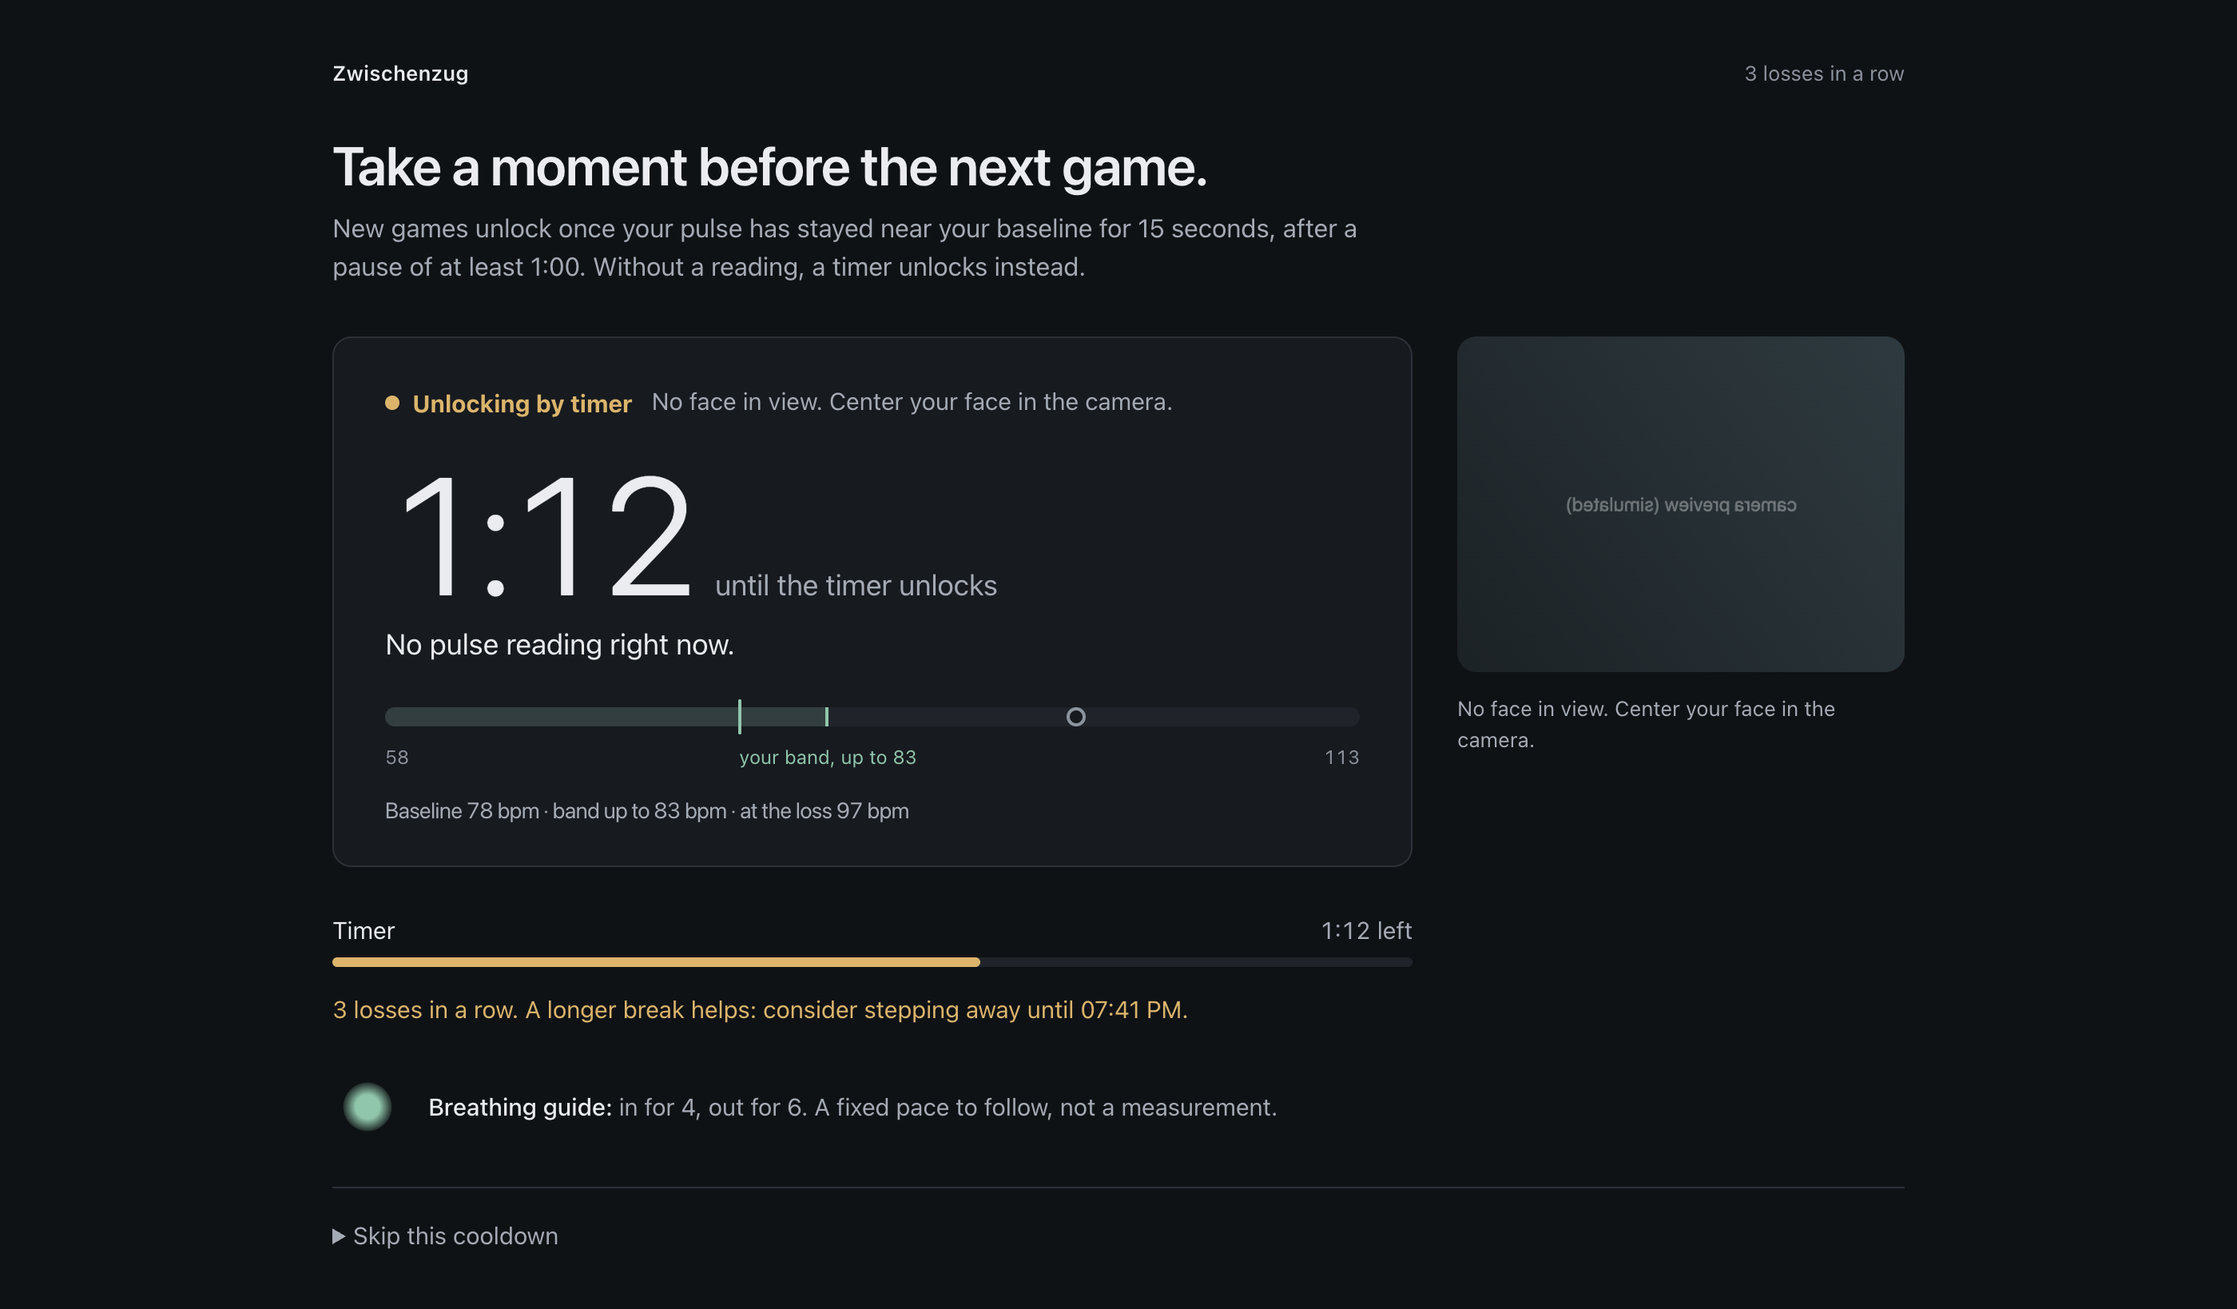
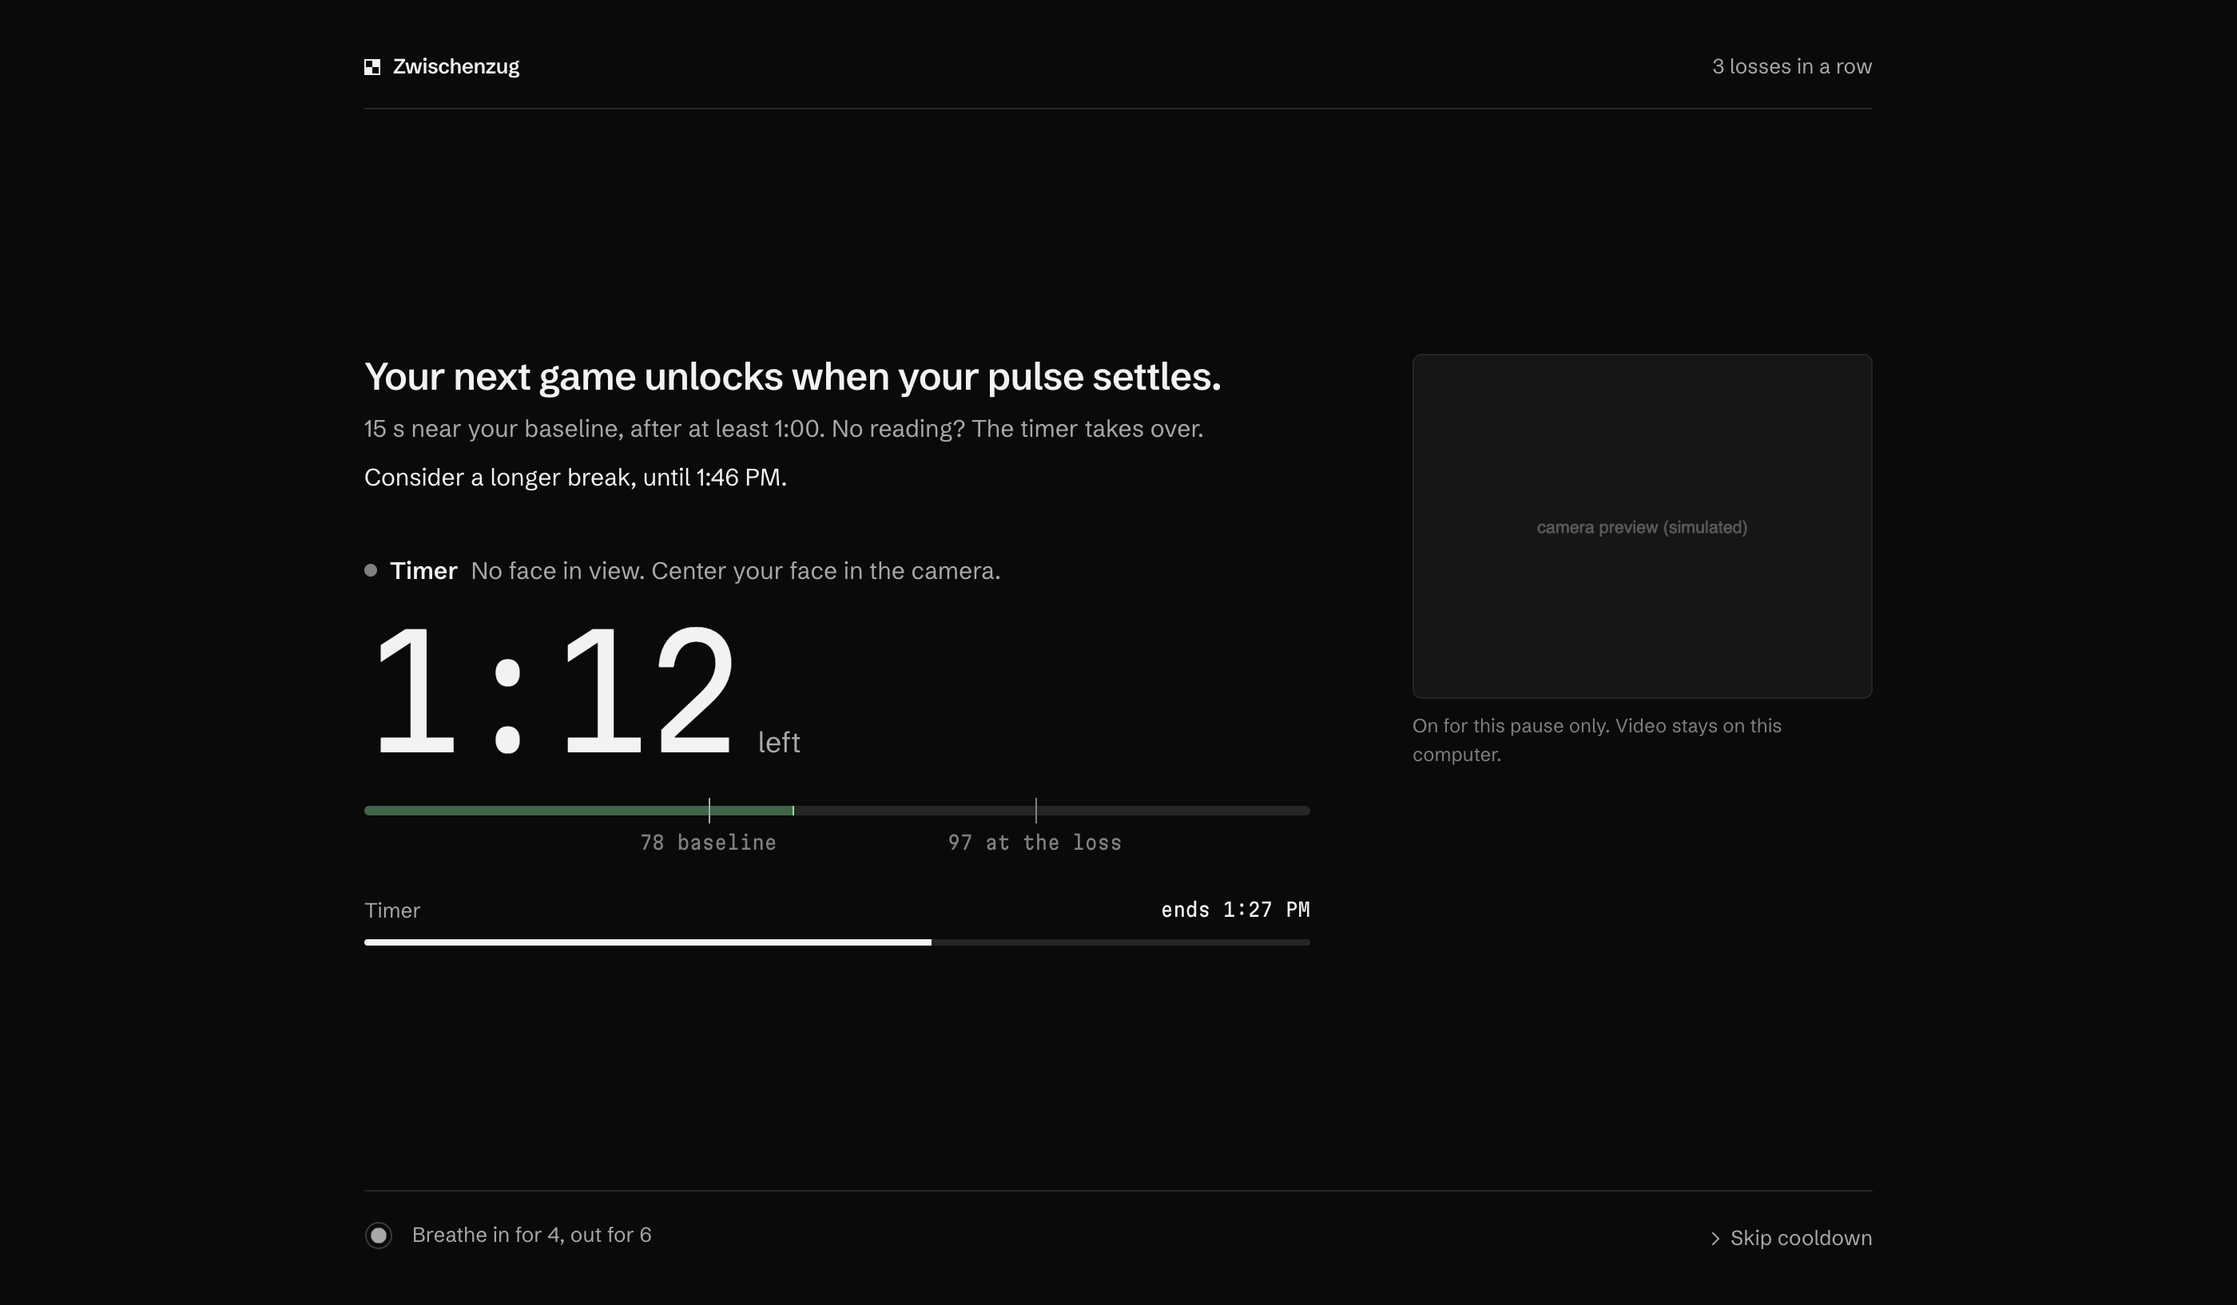
Docs: new screenshots (simulated states labelled), Run section with npm run app, fonts credit, updated UI labels in manual tests

diff --git a/README.md b/README.md
@@ -17,12 +17,29 @@ Built for the [DEV.to Presage SmartSpectra SDK Challenge 2026](https://dev.to/ch
 > any condition, and it does not claim to detect "tilt". It only compares your current
 > pulse reading with your own baseline.
 
-![Cooldown screen: pulse path, 9 of 15 seconds near baseline](docs/screenshots/cooldown-recovering.png)
+![Cooldown screen: live pulse back near baseline, 9 of 15 seconds held](docs/screenshots/cooldown-recovering.png)
 
-The cooldown screen says which unlock path is active: **by pulse** (green; live bpm against
-your band) or **by timer** (amber; with the reason: timer-only mode, no baseline, no API key,
-SDK error, or no face/signal). More in [docs/screenshots/](docs/screenshots/). These
-screenshots use simulated readings and a placeholder camera image.
+The cooldown screen shows one status line, one big number and one progress bar. **Live pulse**
+(green) shows your bpm against your band; **Timer** shows the countdown and the plain reason
+(timer only, no baseline, no API key, no face, too dark). More in
+[docs/screenshots/](docs/screenshots/):
+
+| Screen              | File                                                                                                                               |
+| ------------------- | ---------------------------------------------------------------------------------------------------------------------------------- |
+| Consent             | [consent.png](docs/screenshots/consent.png)                                                                                        |
+| Lichess account     | [setup.png](docs/screenshots/setup.png)                                                                                            |
+| Check-in            | [calibration.png](docs/screenshots/calibration.png)                                                                                |
+| Cooldown (pulse)    | [cooldown-pulse.png](docs/screenshots/cooldown-pulse.png), [cooldown-waiting.png](docs/screenshots/cooldown-waiting.png)           |
+| Cooldown (timer)    | [cooldown-no-face.png](docs/screenshots/cooldown-no-face.png), [cooldown-timer-only.png](docs/screenshots/cooldown-timer-only.png) |
+| Side panel          | [panel.png](docs/screenshots/panel.png), [panel-settings.png](docs/screenshots/panel-settings.png)                                 |
+| Sign-in bar         | [panel-signed-out.png](docs/screenshots/panel-signed-out.png)                                                                      |
+| Lichess unreachable | [lichess-offline.png](docs/screenshots/lichess-offline.png)                                                                        |
+| Diagnostics         | [diagnostics.png](docs/screenshots/diagnostics.png)                                                                                |
+
+The pulse-path cooldowns, `panel.png` and `panel-settings.png` are **simulated**: real
+renderer views fed crafted app states, with a placeholder camera image. The others are
+scripted smoke runs of the app with a temporary profile. The Lichess area is empty in all of
+them because the embedded lichess.org view is captured separately.
 
 ## Status
 
@@ -49,9 +66,20 @@ camera session. [docs/MANUAL_TESTS.md](docs/MANUAL_TESTS.md) has the steps.
 ```bash
 git clone <this repo> zwischenzug && cd zwischenzug
 npm install
-cp .env.example .env    # then put your Presage key in .env (optional)
-npm run dev
+cp .env.example .env    # then put your Presage key in .env (optional, dev only)
+npm run app
 ```
+
+## Run
+
+- **`npm run app`** builds the real app (`release/mac-arm64/Zwischenzug.app`) and opens it.
+  This is the user-facing build: named Zwischenzug in the menu bar, Dock, app switcher and
+  About panel, with its own icon and a minimal menu (no reload or developer tools). It does not
+  read `.env`; paste your Presage key under **Settings** in the side panel once.
+- **`npm run dev`** runs from source with the stock Electron binary, for development. The menu
+  items say Zwischenzug and a View menu adds Reload and DevTools, but the bold menu-bar title,
+  Dock tooltip and app switcher show **Electron**, because they come from Electron's own app
+  bundle.
 
 `npm install` downloads the SmartSpectra native runtime for every supported platform (a few
 hundred MB). `package.json#allowScripts` approves the install scripts that are needed
@@ -67,16 +95,17 @@ and Electron will exit immediately. Use `env -u ELECTRON_RUN_AS_NODE npm run dev
    challenge page uses).
 2. Copy your API key.
 3. Either put it in `.env` as `PRESAGE_API_KEY=...` (development), or paste it into the app
-   (side panel or check-in screen). Keys entered in the app are encrypted with the OS keychain
+   (**Settings** in the side panel, or the check-in screen). Keys entered in the app are encrypted with the OS keychain
    (Electron `safeStorage`) and stored in the app's data folder. The key is never in source.
    `PRESAGE_API_KEY` wins over a saved key.
 4. `npm run presage:check` confirms Presage accepts the key without using the camera (blank
    frames for 20 s; the key is never printed).
-5. In the app, **Presage diagnostics** (side panel or check-in screen) shows whether the SDK
-   loaded, whether a key is present, the OS camera permission, and a live measurement with raw
-   readings, time to first reading, readings per second and the share of stable readings. It
-   says **REAL SDK** only while a Presage session is actually running, and **FALLBACK** with
-   the reason otherwise. Readings on that screen are not saved.
+5. In the app, **Settings › Advanced › Pulse diagnostics** (or **Troubleshoot** on the
+   check-in screen after a failure) shows whether the SDK loaded, whether a key is present,
+   the OS camera permission, and a live measurement with raw readings, time to first reading,
+   readings per second and the share of stable readings. It says **Presage session running**
+   only while a session is actually running, and **Stopped** with the reason otherwise.
+   Readings on that screen are not saved.
 
 Note: Presage's sample notes that some keys are not enabled for cardio metrics. Zwischenzug
 requests only `PULSE_RATE`. If your key is not provisioned for it, the SDK reports an error,
@@ -84,7 +113,7 @@ the app shows it and falls back to the timer.
 
 ### First run
 
-1. **Consent**: choose "Allow camera between games" or "Timer only, no camera".
+1. **Consent**: choose "Allow camera between games" or "Timer only".
 2. **Lichess username**: the account whose public game feed is watched.
 3. **Check-in** (camera mode): sit as you usually play, light in front of you, one minute.
 4. **Play**: sign in to Lichess in the left pane as that account and play normally. Until the
@@ -97,6 +126,7 @@ the app shows it and falls back to the timer.
 
 | Script                            | What it does                                                      |
 | --------------------------------- | ----------------------------------------------------------------- |
+| `npm run app`                     | Build the packaged app and open it (the user-facing build)        |
 | `npm run dev`                     | Build all bundles and launch Electron                             |
 | `npm run build`                   | Build `dist/` (main, preload, renderer) with esbuild              |
 | `npm start`                       | Launch the last build                                             |
@@ -172,7 +202,7 @@ Defaults live in [`src/core/config.ts`](src/core/config.ts). Override them with 
   The sign-in check uses `/account/info`, an endpoint built for Lichess's old mobile app; if
   Lichess removes or changes it, play stays blocked (fail closed) and the bar says why.
 - **lichess.org unreachable.** If the Lichess page fails to load (offline, timeout), the app
-  shows "Couldn't reach lichess.org" with a **Retry now** button and retries after 2 s, 5 s,
+  shows "Can’t reach lichess.org" with a **Retry now** button and retries after 2 s, 5 s,
   10 s, then every 30 s, and at once when the network comes back. A load that hangs on a very
   slow connection is not cut short; it shows "Retrying…" until Chromium gives up or it loads.
 - **Sign-in check latency.** Sign-out and account switches are caught at once (login cookie
@@ -182,8 +212,9 @@ Defaults live in [`src/core/config.ts`](src/core/config.ts). Override them with 
   10-reading calibration minimum is a guess and configurable.
 - **Pulse after casual losses may barely rise.** The minimum wait and timer still apply. The
   local log lets you see your own numbers.
-- **Dev builds show "Electron" in the menu bar.** The bold app-menu title comes from the
-  Electron bundle; the packaged app is named Zwischenzug. A Presage key saved in the app before
+- **Dev builds show "Electron" in the menu bar.** The bold app-menu title, Dock tooltip and app
+  switcher come from the stock Electron bundle; `npm run app` builds the app named Zwischenzug
+  everywhere. A Presage key saved in the app before
   the rename may need saving again (its keychain entry is tied to the app name);
   `PRESAGE_API_KEY` in `.env` is unaffected.
 - **Breathing guide is a fixed pace** (in 4, out 6), not a measurement.
@@ -195,6 +226,9 @@ Defaults live in [`src/core/config.ts`](src/core/config.ts). Override them with 
 - Presage SmartSpectra SDK (`@smartspectra/node-sdk`), integrated following the official
   Electron quickstart (renderer SDK, SDK preload bridge, `bindSmartSpectraIpc`).
 - Lichess public API: <https://lichess.org/api>.
+- Fonts, self-hosted under the SIL Open Font License 1.1 (licenses in `src/renderer/fonts/`):
+  [Schibsted Grotesk](https://github.com/schibsted/schibsted-grotesk) for text and
+  [Martian Mono](https://github.com/evilmartians/mono) for numbers.
 - Research basis for the time floors (one minute, 30 minutes after five losses):
   [romanbreyten/chess-tilt](https://github.com/romanbreyten/chess-tilt).
 

diff --git a/docs/MANUAL_TESTS.md b/docs/MANUAL_TESTS.md
@@ -21,20 +21,22 @@ Use a throwaway profile so tests do not touch your real data:
 ## 2. Live measurement on the diagnostics screen
 
 1. Launch with a throwaway profile (above). Choose "Allow camera between games", enter any
-   Lichess username, then on the check-in screen click **Presage diagnostics**.
+   Lichess username, then click **Use the timer instead** and open **Settings › Advanced ›
+   Pulse diagnostics** in the side panel (or click **Troubleshoot** after a failed check-in).
 2. Check the facts: SDK `loaded (v3.4.0)`, API key present `yes (PRESAGE_API_KEY)`, and
-   "Cooldowns will use: REAL SDK".
+   "Ready: cooldowns unlock by pulse, or by timer if the signal drops".
 3. Click **Start measurement**. macOS asks for camera access the first time. In dev builds
    the prompt may name Electron or the terminal app you launched from; allow it.
 4. Sit still, face lit from the front, for about 60 s. The label must read
-   `REAL SDK: Presage session running` and rows must appear under "Latest readings".
+   `Presage session running` and rows must appear under "Latest readings".
 5. Click **Stop**. The camera light must go off within a few seconds.
 
 ## 3. Check-in (calibration)
 
-Click **Back**, then **Start check-in** and sit still for one minute. Pass: the app moves to
-the playing screen and the panel shows "Baseline: NN bpm". On failure it shows how many
-usable readings it got.
+Click **Back**, then **Recalibrate** in the side panel (camera mode), then **Start check-in**
+and sit still for one minute. Pass: the app moves to the playing screen and the panel shows
+"Baseline NN bpm". On failure it says it couldn't get a steady reading and offers
+**Troubleshoot**.
 
 ## 4. Failure cases (diagnostics screen unless noted)
 
@@ -42,30 +44,30 @@ usable readings it got.
 | --------------- | ----------------------------------------------------------------- | ------------------------------------------------------------------------------ |
 | No face         | Start, then move out of frame for 20 s                            | Hint "No face in view"; no new stable readings                                 |
 | Poor light      | Start in a dark room                                              | Hint "Too dark..."; stable share drops                                         |
-| Camera in use   | Open Photo Booth first, then Start                                | FALLBACK: "The camera is in use by another app."; camera light off afterwards  |
-| Camera denied   | System Settings > Privacy & Security > Camera: turn off the entry | FALLBACK: "Camera access is off..." (re-enable it afterwards)                  |
-| Bad key         | Launch with `PRESAGE_API_KEY=wrong`                               | FALLBACK: "Presage rejected the API key."; event `kAuthenticationFailed`       |
+| Camera in use   | Open Photo Booth first, then Start                                | Stopped: "The camera is in use by another app."; camera light off afterwards   |
+| Camera denied   | System Settings > Privacy & Security > Camera: turn off the entry | Stopped: "Camera access is off..." (re-enable it afterwards)                   |
+| Bad key         | Launch with `PRESAGE_API_KEY=wrong`                               | Stopped: "Presage rejected the API key."; event `kAuthenticationFailed`        |
 | Network loss    | Wi-Fi off, then Start                                             | Note the message and event shown (expected `kNetworkError`)                    |
-| Signal lost     | During a real cooldown, leave the frame                           | "No pulse reading right now. Timer fallback in ..." and the timer still unlock |
-| Lichess offline | Wi-Fi off while playing                                           | Panel: "cannot reach Lichess; retrying"; recovers when Wi-Fi is back           |
+| Signal lost     | During a real cooldown, leave the frame                           | Status "Timer" with the reason; the timer still unlocks                        |
+| Lichess offline | Wi-Fi off while playing                                           | Panel game feed: "Cannot reach Lichess; retrying"; recovers when Wi-Fi is back |
 
 ## 5. Lichess sign-in check
 
 The logged-out case is verified by a smoke run. The signed-in cases need your account:
 
 1. Launch with your test profile. While Lichess is signed out, the amber bar above Lichess
-   reads "Sign in to Lichess as @you to play. Games are blocked until then." Click a pool
+   reads "Sign in to Lichess as @you to play." Click a pool
    (e.g. 1+0): no game starts.
-2. Click **Open Lichess sign-in** and sign in as the configured account. Within about a second
-   the bar disappears and the panel shows "Signed in as @you · play allowed". The log line is
+2. Click **Sign in to Lichess** and sign in as the configured account. Within about a second
+   the bar disappears and the panel shows "@you · Signed in · games allowed". The log line is
    `lichess sign-in: ... -> verified`. Start a casual game: it works.
 3. Sign out from the Lichess avatar menu. The bar returns immediately; pools do nothing.
 4. Sign in as a different account (if you have one): the bar says "Signed in as @other. Sign
    out and sign in to Lichess as @you to play."; no game starts.
 5. Turn Wi-Fi off and wait up to a minute: the bar says it could not check the sign-in. Turn
    Wi-Fi on: it clears within about 10 s.
-6. Wi-Fi off at launch: quit, turn Wi-Fi off, launch. The Lichess area says "Couldn't reach
-   lichess.org. Retrying in Ns…" with a **Retry now** button (also reachable with Tab), and
+6. Wi-Fi off at launch: quit, turn Wi-Fi off, launch. The Lichess area says "Can’t reach
+   lichess.org. Retrying in N s" with a **Retry now** button (also reachable with Tab), and
    the bar says the sign-in could not be checked. Turn Wi-Fi on: Lichess appears within a few
    seconds (at once if macOS reports the network back, otherwise at the next retry or on
    **Retry now**). The log shows `lichess loaded after N failed attempt(s)`.

diff --git a/docs/IMPLEMENTATION_PLAN.md b/docs/IMPLEMENTATION_PLAN.md
@@ -41,7 +41,7 @@ Status legend: [x] done and verified, [~] implemented but not verified, [ ] not 
 - [~] Validation hints and SDK error -> timer fallback mapping
 - [~] Calibration (60 s, median of stable readings, retry / timer-only)
 - [~] Live pulse vs baseline on the cooldown screen
-- [x] Diagnostics screen (SDK/key/camera status, REAL SDK vs FALLBACK, raw readings, stats)
+- [x] Diagnostics screen under Settings › Advanced (SDK/key/camera status, session running vs stopped, raw readings, stats)
 - [x] `npm run presage:check`: key check without a camera (bad key -> `kAuthenticationFailed`)
 - [x] Provider: serialized teardown (shared preload port), camera released on SDK errors
 - [ ] **Run with a real API key on this Mac** (docs/MANUAL_TESTS.md): time to first reading,
